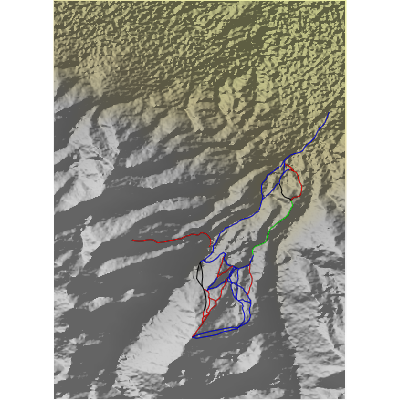
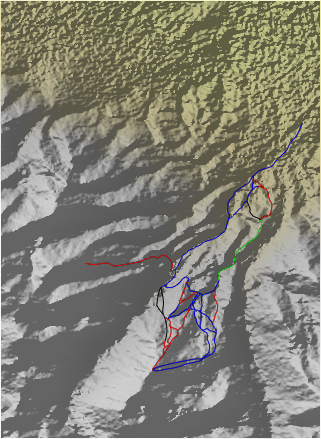
Scale fixed

diff --git a/bansko.html b/bansko.html
@@ -23,7 +23,7 @@
  //   var axes = new THREE.AxisHelper(400);
  //   scene.add(axes);
 
-    var camera = new THREE.PerspectiveCamera(45, width / height, 0.1, 1000);
+    var camera = new THREE.PerspectiveCamera(45, width / height, 0.1, 2000);
     camera.position.set(0, -400, 200);
 
 
@@ -36,7 +36,7 @@
         var geometry = new THREE.PlaneGeometry(321, 439, 320, 438);
 
         for (var i = 0, l = geometry.vertices.length; i < l; i++) {
-            geometry.vertices[i].z = data[i] / 65535 * 100;
+            geometry.vertices[i].z = data[i] / 65535 * 44;
         }
 
     var material = new THREE.MeshPhongMaterial({
